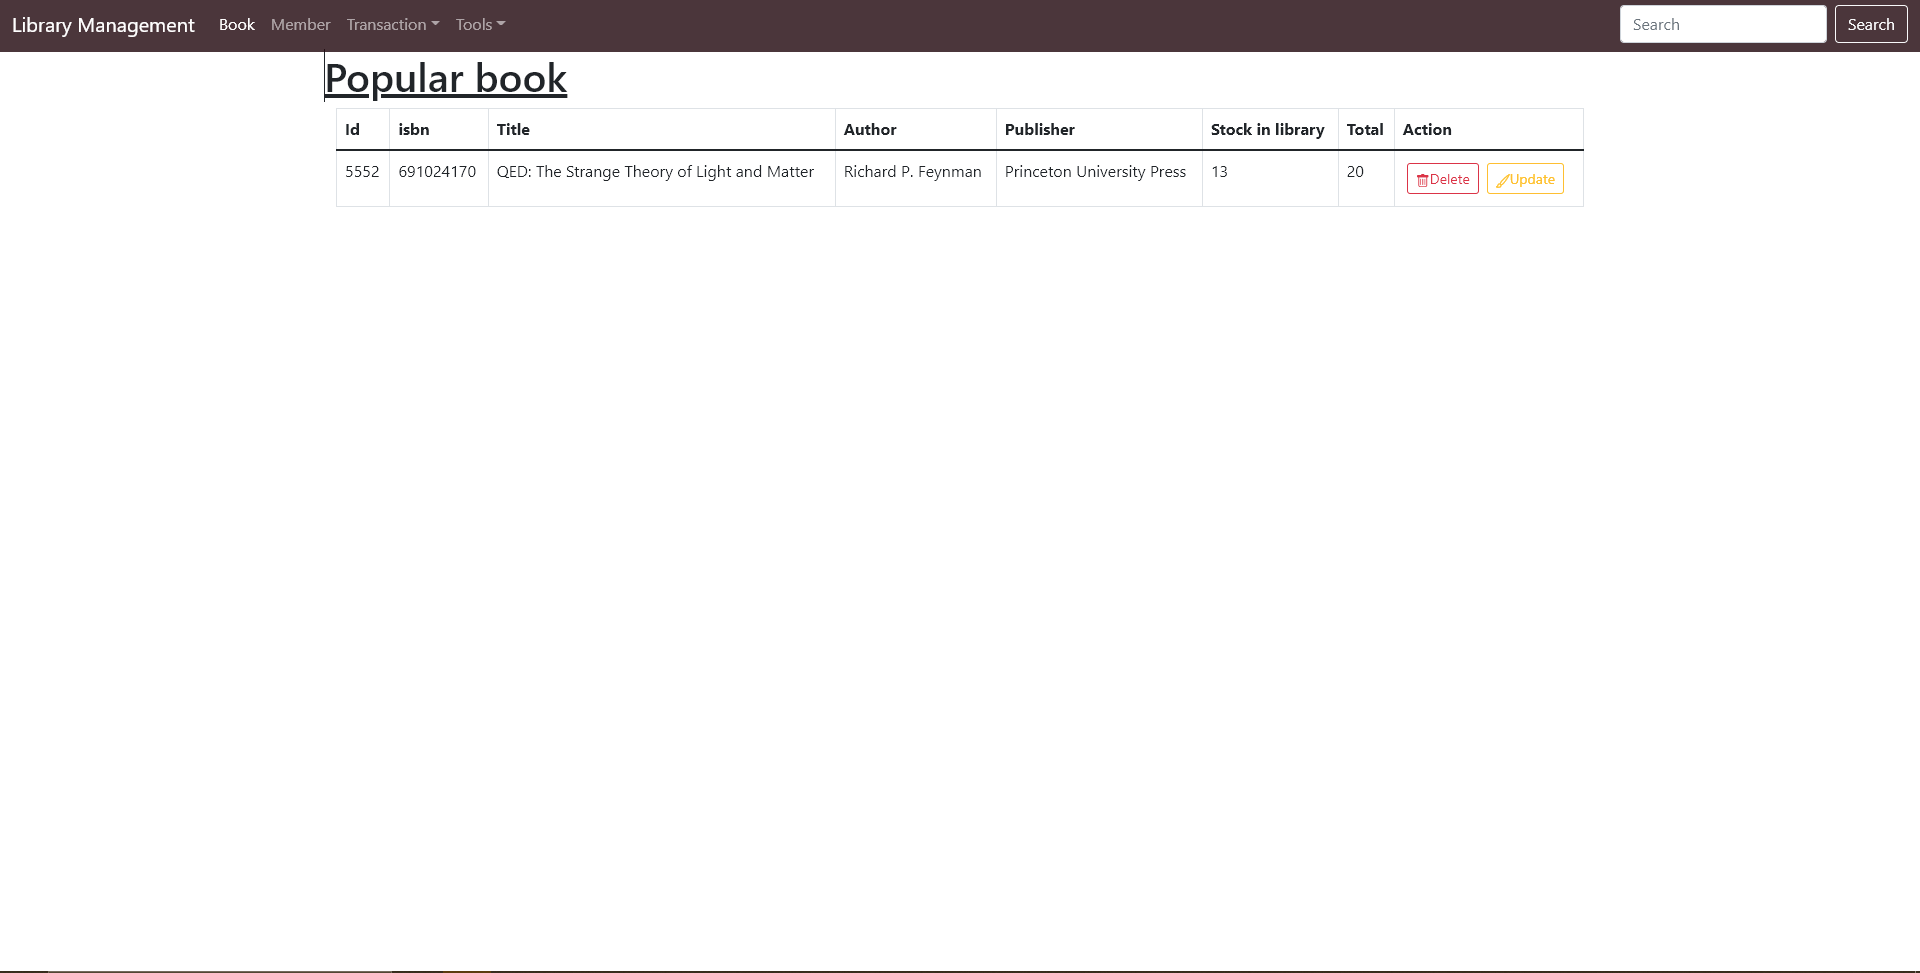
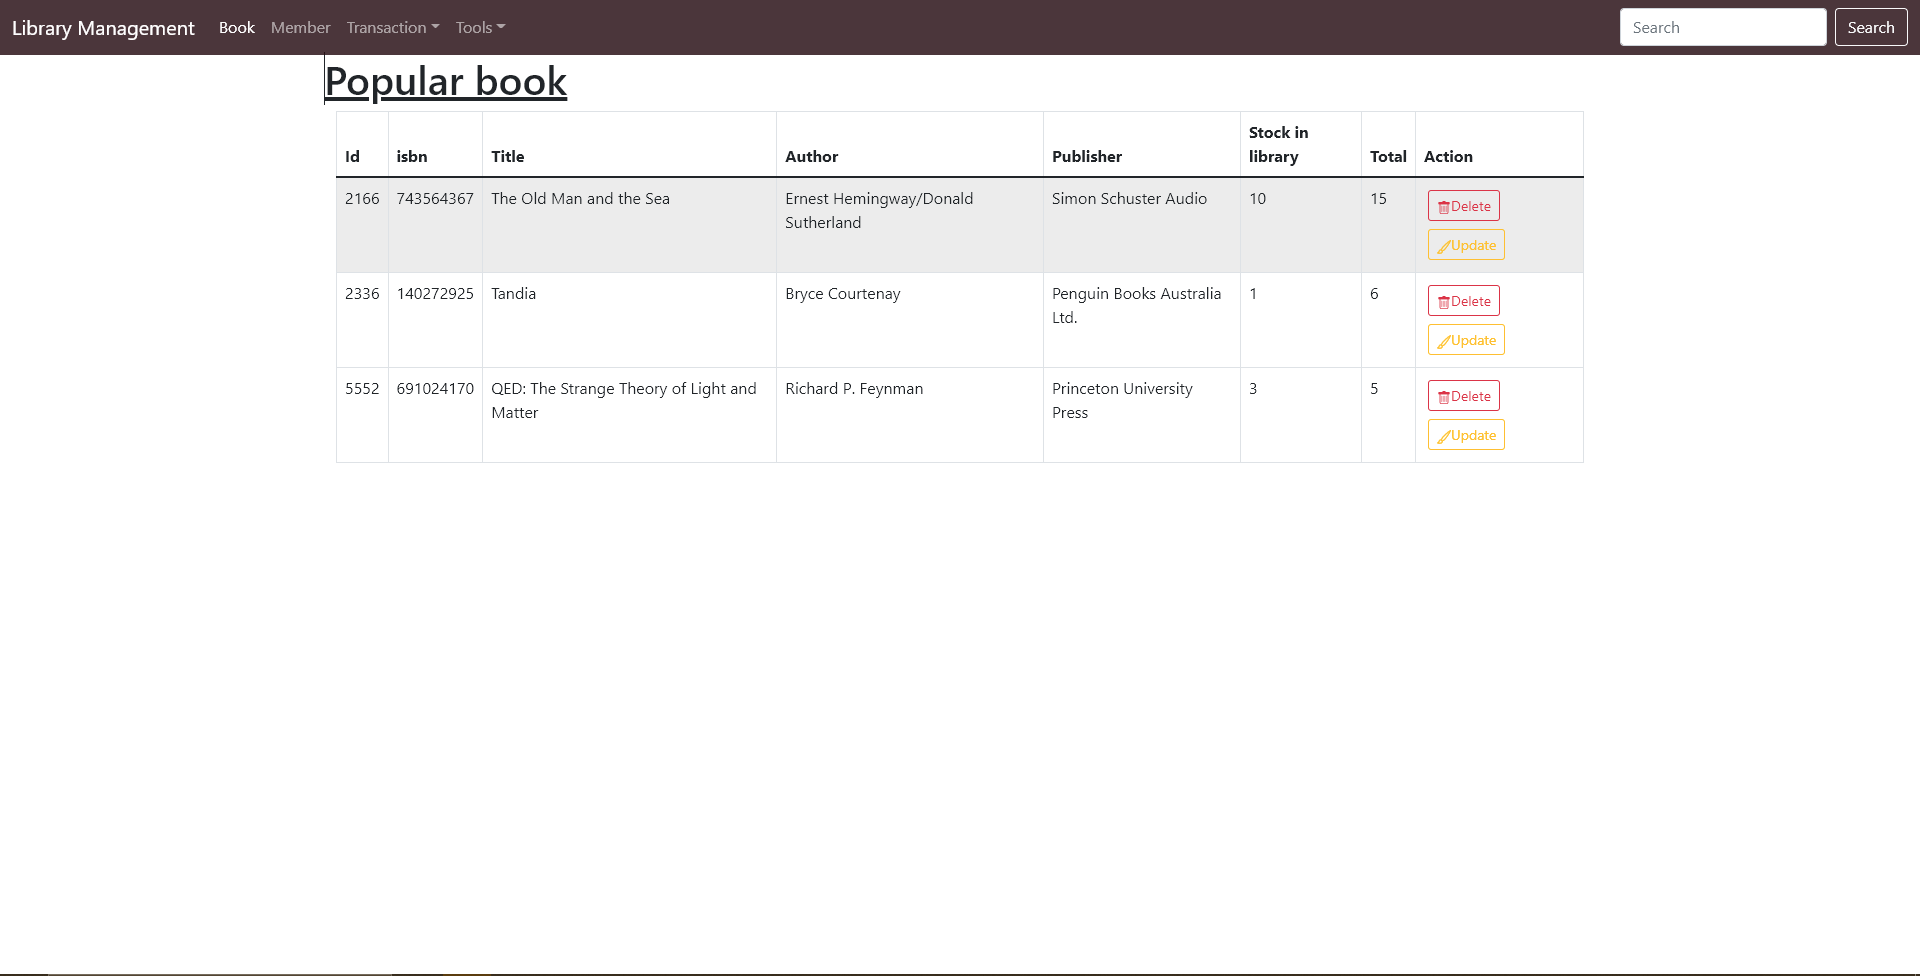
added data and took photos

diff --git a/Api/insertdb.py b/Api/insertdb.py
@@ -1,0 +1,157 @@
+from distutils.log import debug
+from urllib import request
+from urllib.request import urlopen
+from datetime import datetime
+from sqlalchemy.orm import relationship,backref
+import datetime
+from flask import Flask ,request,jsonify
+import json
+from flask_sqlalchemy import SQLAlchemy
+from sqlalchemy.orm import validates
+from sqlalchemy import or_ ,and_,func,desc,asc,join,union
+from flask_cors import CORS,cross_origin
+app = Flask(__name__,static_folder='./build',static_url_path='')
+CORS(app)
+app.config['SQLALCHEMY_DATABASE_URI'] = 'sqlite:///book.db'
+app.config['SQLALCHEMY_BINDS'] = {
+    'member':      'sqlite:///member.db',
+    'transaction':  'sqlite:///transaction.db'}
+app.config['SQLALCHEMY_TRACK_MODIFICATIONS'] = False
+db = SQLAlchemy(app)
+
+
+class Book(db.Model):
+    __tablename__='book'
+
+    id = db.Column(db.Integer ,primary_key=True)
+    title = db.Column(db.String(80))
+    isbn = db.Column(db.Integer, unique=True, nullable=False)
+    author = db.Column(db.String(80))
+    publisher = db.Column(db.String(80))
+    stockinlibrary = db.Column(db.Integer )
+    totalstock = db.Column(db.Integer )
+    # members = relationship("Member",secondary="transaction")
+
+
+class Member(db.Model):
+    __tablename__='member'
+    id = db.Column(db.Integer ,primary_key=True)
+    name = db.Column(db.String(80))
+    email = db.Column(db.String(80) , unique=True)
+    books = relationship("Book",secondary="transaction",overlaps="members")
+
+class MyDateTime(db.TypeDecorator):
+    impl = db.DateTime
+    
+    def process_bind_param(self, value, dialect):
+        if type(value) is str:
+            return datetime.datetime.strptime(value, '%Y-%m-%d').date()
+        return value
+
+
+
+class Transaction(db.Model):
+    __tablename__='transaction'
+
+    m_id = db.Column(db.Integer, db.ForeignKey('member.id'))
+    b_id = db.Column(db.Integer,  db.ForeignKey('book.id'))
+    fees = db.Column(db.Integer)
+    issuedate = db.Column(MyDateTime )
+    returndate = db.Column(MyDateTime )
+    status = db.Column(db.String(15),default='unpaid')
+
+    book = relationship(Book, backref=backref("transaction",cascade="all,delete-orphan",overlaps="books,members"),overlaps="books,members")
+    member = relationship(Member, backref=backref("transaction",cascade="all,delete-orphan",overlaps="books,members"),overlaps="books,members")
+    __table_args__ = (
+    db.PrimaryKeyConstraint(
+        m_id, b_id,
+        ),
+    )
+
+
+
+data1 = ['Tresco Lavine',
+'Deja Kinnison',
+'Maude Dieter',
+'Maude McPhail',
+'Panyin Snider',
+'Bajnok McPhail',
+'Anar Twomey',
+'Lorne Rolle',
+'Keyanna Hume',
+'Yeshaya Coward',
+'Sibley McPhail',
+'Udaya Ennis',
+'Mohana Duryea',
+'Maddy Snider',
+'Phedra Hartwig',]
+
+data2=['ashley-iorio@arvinmeritor.info',
+'klem-will@progressenergyinc.info',
+'ag.lan@autozone-inc.info',
+'feli.bu@acusage.net',
+'su_ritch@arketmay.com',
+'pra.hab@diaperstack.com',
+'ha_penl@diaperstack.com',
+'narelov@diaperstack.com',
+'sarnginle@autozone-inc.info',
+'trevel_by@progressenergyinc.info',
+'klemens.byram@arvinmeritor.info',
+'raffertco@acusage.net',
+'shiansoilea@progressenergyinc.info',
+'tayl.gu@progressenergyinc.info',
+'ag.fishbur@consolidated-farm-research.net']
+data4=[]
+import random
+for i in range(len(data1)):
+    id = random.randrange(10000, 100000, 4)
+    data4.append(id)
+    mem = Member(id=id,name=data1[i],email=data2[i])
+    db.session.add(mem)
+    db.session.commit()
+
+import random
+import time
+    
+start_date = datetime.date(2022, 1, 1)
+end_date = datetime.date(2022, 3, 1)
+
+time_between_dates = end_date - start_date
+days_between_dates = time_between_dates.days
+
+ 
+
+data3=[676,890,1725,2166,2336,3690,5552,8197,8205,15930,17828,18745,26827,29879,31389,33513,39749,73877,44183,44300]
+def addissuebook(data):
+    
+    if (bool(Member.query.filter_by(id=data['m_id']).first())):
+        if(bool(Book.query.filter_by(id=data['b_id']).first())):
+            if(bool(Transaction.query.filter(and_(Transaction.b_id==data['b_id'],Transaction.m_id==data['m_id'])).first())):
+                return{"610":"book already issued"}
+            book = Book.query.filter_by(id=data['b_id']).first()
+            if book.stockinlibrary >0 :
+                addissuebook = Transaction(m_id= data['m_id'],b_id=data['b_id'],issuedate=data['issuedate'])
+                db.session.add(addissuebook)
+                db.session.commit()
+                book.stockinlibrary = int(book.stockinlibrary) -1 
+                db.session.add(book)
+                db.session.commit()
+                return {"604" : "book issued"}
+            else :
+                return {"605": "book out of stock"}
+        else :
+            return{"607":"book not available"}
+    else :
+        return {"606": "member not available"}
+
+for i in range(44):
+    random_number_of_days = random.randrange(days_between_dates)
+ 
+    random_date = start_date + datetime.timedelta(days=random_number_of_days)
+
+    print(type(random_date))
+    b_id = random.choice(data3)
+    m_id = random.choice(data4)
+    data = {"m_id":m_id,"b_id":b_id,'issuedate':random_date}
+    toprint = addissuebook(data)
+    print(toprint)
